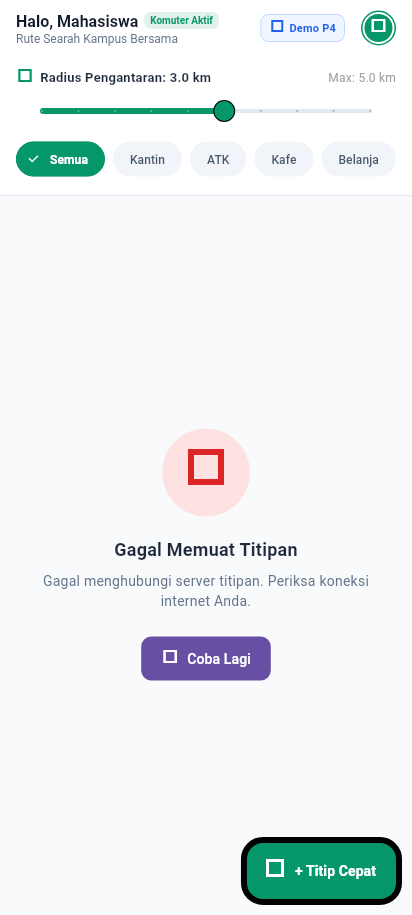
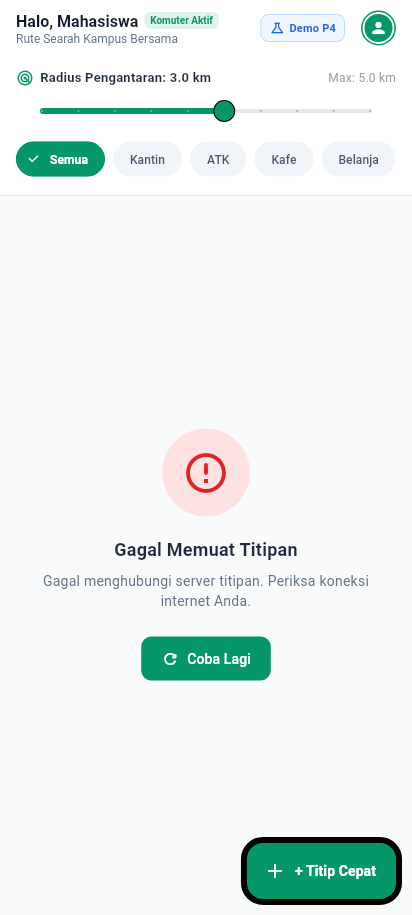
docs(p4): re-render screenshots with full MaterialIcons font and TitipJalur Material 3 theme

diff --git a/test/p4_screenshot_capture_test.dart b/test/p4_screenshot_capture_test.dart
@@ -79,9 +79,20 @@ void main() {
               (ref) => _MockFeedNotifier(const AsyncValue.loading()),
             ),
           ],
-          child: const MaterialApp(
+          child: MaterialApp(
             debugShowCheckedModeBanner: false,
-            home: DashboardScreen(),
+            theme: ThemeData(
+              useMaterial3: true,
+              fontFamily: 'Roboto',
+              colorScheme: ColorScheme.fromSeed(
+                seedColor: const Color(0xFF059669),
+                primary: const Color(0xFF059669),
+                surface: Colors.white,
+                brightness: Brightness.light,
+              ),
+              scaffoldBackgroundColor: const Color(0xFFF8FAFC),
+            ),
+            home: const DashboardScreen(),
           ),
         ),
       );
@@ -139,9 +150,20 @@ void main() {
               (ref) => _MockFeedNotifier(AsyncValue.data(orders)),
             ),
           ],
-          child: const MaterialApp(
+          child: MaterialApp(
             debugShowCheckedModeBanner: false,
-            home: DashboardScreen(),
+            theme: ThemeData(
+              useMaterial3: true,
+              fontFamily: 'Roboto',
+              colorScheme: ColorScheme.fromSeed(
+                seedColor: const Color(0xFF059669),
+                primary: const Color(0xFF059669),
+                surface: Colors.white,
+                brightness: Brightness.light,
+              ),
+              scaffoldBackgroundColor: const Color(0xFFF8FAFC),
+            ),
+            home: const DashboardScreen(),
           ),
         ),
       );
@@ -166,9 +188,20 @@ void main() {
               (ref) => _MockFeedNotifier(const AsyncValue.data([])),
             ),
           ],
-          child: const MaterialApp(
+          child: MaterialApp(
             debugShowCheckedModeBanner: false,
-            home: DashboardScreen(),
+            theme: ThemeData(
+              useMaterial3: true,
+              fontFamily: 'Roboto',
+              colorScheme: ColorScheme.fromSeed(
+                seedColor: const Color(0xFF059669),
+                primary: const Color(0xFF059669),
+                surface: Colors.white,
+                brightness: Brightness.light,
+              ),
+              scaffoldBackgroundColor: const Color(0xFFF8FAFC),
+            ),
+            home: const DashboardScreen(),
           ),
         ),
       );
@@ -198,9 +231,20 @@ void main() {
               ),
             ),
           ],
-          child: const MaterialApp(
+          child: MaterialApp(
             debugShowCheckedModeBanner: false,
-            home: DashboardScreen(),
+            theme: ThemeData(
+              useMaterial3: true,
+              fontFamily: 'Roboto',
+              colorScheme: ColorScheme.fromSeed(
+                seedColor: const Color(0xFF059669),
+                primary: const Color(0xFF059669),
+                surface: Colors.white,
+                brightness: Brightness.light,
+              ),
+              scaffoldBackgroundColor: const Color(0xFFF8FAFC),
+            ),
+            home: const DashboardScreen(),
           ),
         ),
       );
@@ -236,9 +280,20 @@ void main() {
               ),
             ),
           ],
-          child: const MaterialApp(
+          child: MaterialApp(
             debugShowCheckedModeBanner: false,
-            home: CreateErrandScreen(),
+            theme: ThemeData(
+              useMaterial3: true,
+              fontFamily: 'Roboto',
+              colorScheme: ColorScheme.fromSeed(
+                seedColor: const Color(0xFF059669),
+                primary: const Color(0xFF059669),
+                surface: Colors.white,
+                brightness: Brightness.light,
+              ),
+              scaffoldBackgroundColor: const Color(0xFFF8FAFC),
+            ),
+            home: const CreateErrandScreen(),
           ),
         ),
       );
@@ -272,9 +327,20 @@ void main() {
               ),
             ),
           ],
-          child: const MaterialApp(
+          child: MaterialApp(
             debugShowCheckedModeBanner: false,
-            home: CreateErrandScreen(),
+            theme: ThemeData(
+              useMaterial3: true,
+              fontFamily: 'Roboto',
+              colorScheme: ColorScheme.fromSeed(
+                seedColor: const Color(0xFF059669),
+                primary: const Color(0xFF059669),
+                surface: Colors.white,
+                brightness: Brightness.light,
+              ),
+              scaffoldBackgroundColor: const Color(0xFFF8FAFC),
+            ),
+            home: const CreateErrandScreen(),
           ),
         ),
       );

diff --git a/test/font_loader_helper.dart b/test/font_loader_helper.dart
@@ -6,12 +6,22 @@ Future<void> loadRealFonts() async {
   final fontDir = Directory('/home/mynggiz/development/flutter/bin/cache/artifacts/material_fonts');
   if (!fontDir.existsSync()) return;
 
-  final fontLoader = FontLoader('Roboto');
+  // 1. Load Roboto fonts (Regular, Bold, Medium, etc.)
+  final robotoLoader = FontLoader('Roboto');
   for (final file in fontDir.listSync()) {
-    if (file is File && file.path.endsWith('.ttf')) {
+    if (file is File && file.path.contains('Roboto') && file.path.endsWith('.ttf')) {
       final bytes = file.readAsBytesSync();
-      fontLoader.addFont(Future.value(ByteData.view(bytes.buffer)));
+      robotoLoader.addFont(Future.value(ByteData.view(bytes.buffer)));
     }
   }
-  await fontLoader.load();
+  await robotoLoader.load();
+
+  // 2. Load MaterialIcons font
+  final iconFile = File('${fontDir.path}/MaterialIcons-Regular.otf');
+  if (iconFile.existsSync()) {
+    final iconLoader = FontLoader('MaterialIcons');
+    final bytes = iconFile.readAsBytesSync();
+    iconLoader.addFont(Future.value(ByteData.view(bytes.buffer)));
+    await iconLoader.load();
+  }
 }
